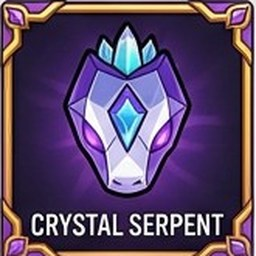
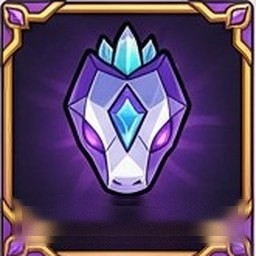
Portadas de skins sin texto de rareza (inpainting)
Claude-Session: https://claude.ai/code/session_01AXZqkW91KhM2dvPiEZb6Fc

Changed region(s): [[0.0312, 0.75, 0.9688, 0.9688]]

diff --git a/demo/tools/clean_covers.py b/demo/tools/clean_covers.py
@@ -1,0 +1,85 @@
+"""Removes the rarity / name text baked into some skin cover images (assets/skins/*.jpg).
+Push-pull inpainting over hand-placed boxes (256 px covers). Run once; keeps a copy in assets/skins_orig/."""
+import os, shutil
+import numpy as np
+from PIL import Image, ImageFilter
+
+HERE = os.path.dirname(__file__)
+D = os.path.join(HERE, "..", "assets", "skins")
+ORIG = os.path.join(HERE, "..", "assets", "skins_orig")
+
+BOXES = {
+    "cosmic": [(180, 0, 252, 60), (48, 198, 208, 256)],
+    "crystal": [(12, 196, 248, 246)],
+    "cyber": [(14, 154, 246, 206), (28, 196, 226, 252)],
+    "ghost": [(52, 196, 200, 254)],
+    "kitsune": [(22, 220, 234, 256)],
+    "knight": [(8, 184, 248, 254)],
+    "toxic": [(146, 0, 254, 50), (0, 186, 252, 246)],
+    "vampire": [(52, 194, 200, 254)],
+}
+
+
+def pushpull(img, mask):
+    """img float HxWx3, mask bool HxW (True = unknown). Fills unknown pixels smoothly."""
+    levels = []
+    a = img.copy()
+    w = (~mask).astype(np.float32)
+    a *= w[..., None]
+    while min(a.shape[:2]) > 2:
+        levels.append((a, w))
+        h, wd = a.shape[0] // 2 * 2, a.shape[1] // 2 * 2
+        a2 = a[:h, :wd].reshape(h // 2, 2, wd // 2, 2, 3).sum((1, 3))
+        w2 = w[:h, :wd].reshape(h // 2, 2, wd // 2, 2).sum((1, 3))
+        a, w = a2, np.minimum(w2, 1.0) * 0 + w2
+        a = a2
+    # pull: normalise
+    res = None
+    for (fa, fw) in reversed(levels):
+        pass
+    # simple iterative version: blur-diffuse from the known area at multiple scales
+    out = img.copy()
+    known = ~mask
+    cur = np.where(known[..., None], img, 0).astype(np.float32)
+    wt = known.astype(np.float32)
+    filled = cur.copy()
+    for sigma in (2, 4, 8, 16, 32):
+        from scipy.ndimage import gaussian_filter
+        num = np.stack([gaussian_filter(cur[..., c] * wt, sigma) for c in range(3)], -1)
+        den = gaussian_filter(wt, sigma)[..., None] + 1e-6
+        est = num / den
+        fill_here = mask & (gaussian_filter(wt, sigma) > 0.05)
+        out[fill_here] = est[fill_here]
+        # newly filled pixels become known for the next (larger) scale
+        cur = np.where(fill_here[..., None], est, cur)
+        wt = np.where(fill_here, 1.0, wt)
+        mask = mask & ~fill_here
+    return out
+
+
+def clean(name):
+    src = os.path.join(ORIG, name + ".jpg")
+    im = Image.open(src).convert("RGB")
+    a = np.asarray(im).astype(np.float32)
+    mask = np.zeros(a.shape[:2], bool)
+    for (x0, y0, x1, y1) in BOXES[name]:
+        mask[y0:y1, x0:x1] = True
+    # the inpainting must not use the text itself: box is unknown, surroundings are known
+    filled = pushpull(a, mask)
+    # feathered blend + a little grain so the patch does not look plastic
+    m = Image.fromarray((mask * 255).astype(np.uint8)).filter(ImageFilter.GaussianBlur(3))
+    mm = np.asarray(m).astype(np.float32)[..., None] / 255.0
+    rng = np.random.default_rng(7)
+    filled = filled + rng.normal(0, 3.0, filled.shape)
+    out = a * (1 - mm) + filled * mm
+    Image.fromarray(np.clip(out, 0, 255).astype(np.uint8)).save(os.path.join(D, name + ".jpg"), quality=90)
+
+
+if __name__ == "__main__":
+    os.makedirs(ORIG, exist_ok=True)
+    for n in BOXES:
+        o = os.path.join(ORIG, n + ".jpg")
+        if not os.path.exists(o):
+            shutil.copy(os.path.join(D, n + ".jpg"), o)
+        clean(n)
+    print("covers cleaned:", ", ".join(BOXES))
